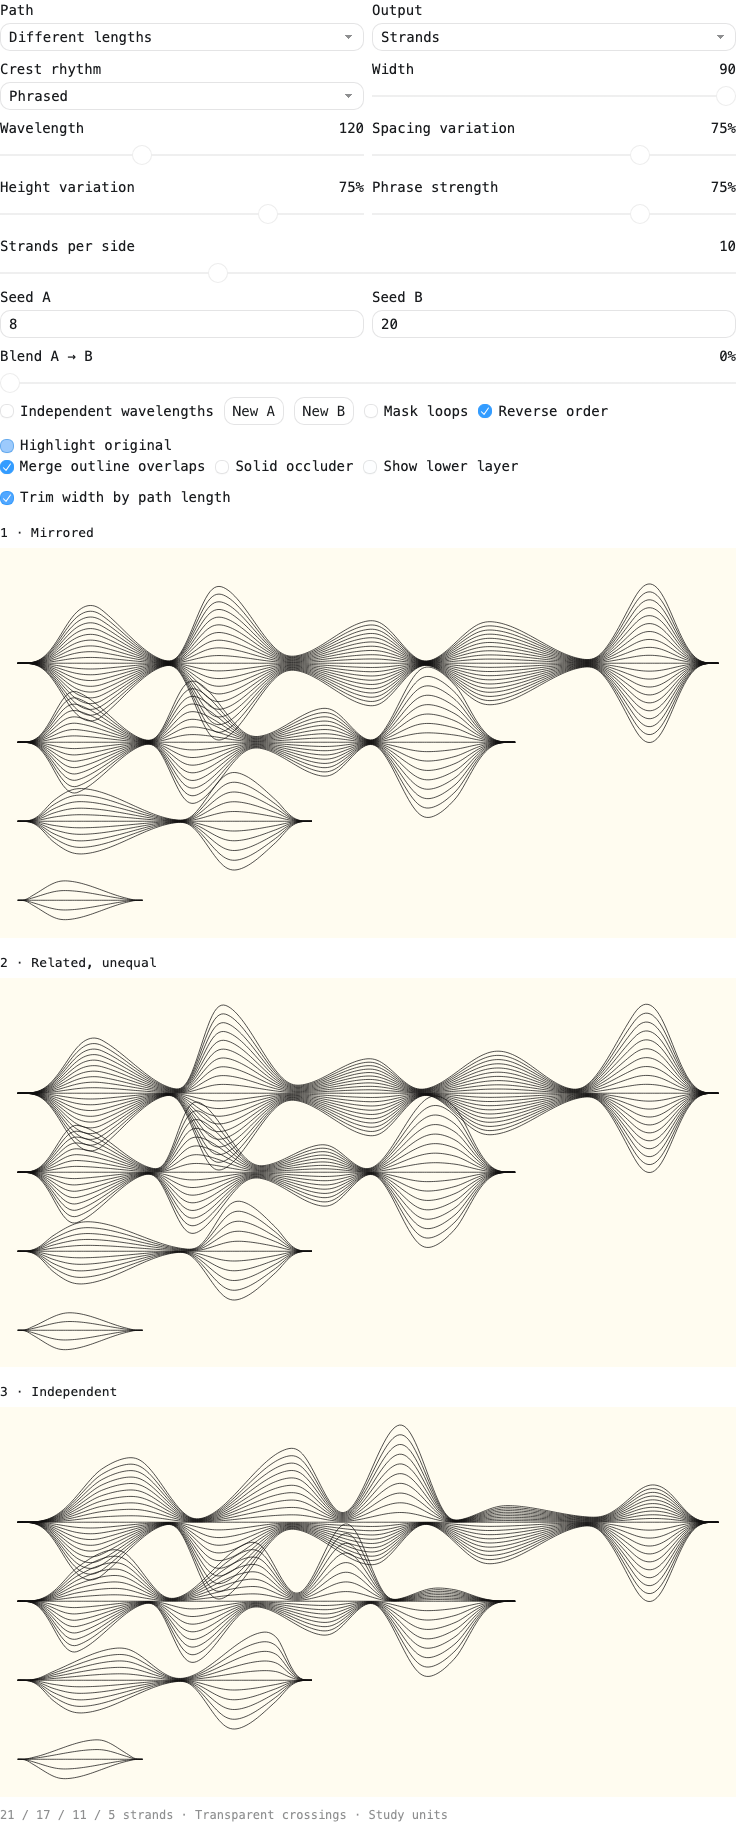
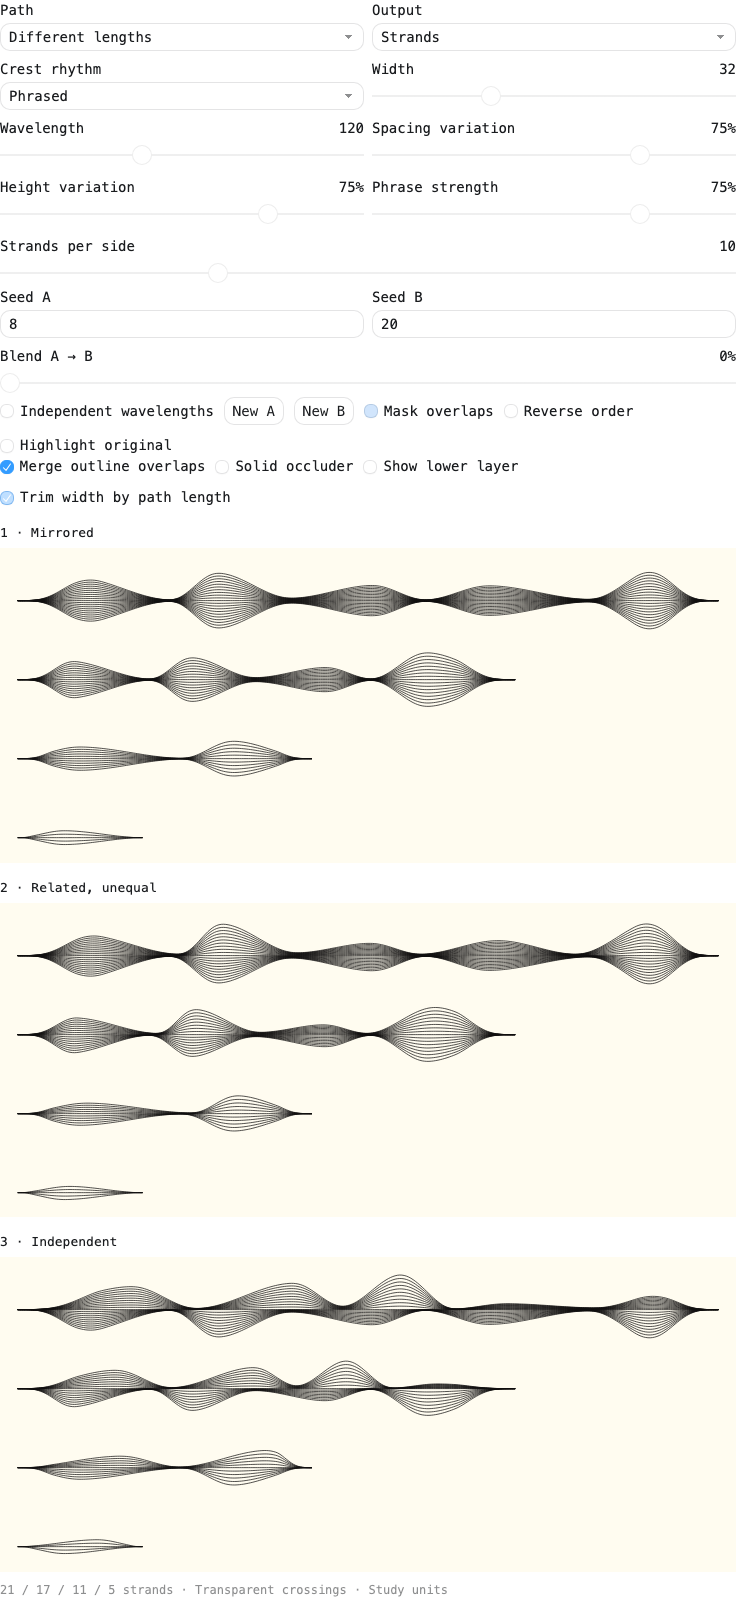
fix: mask ribbon overlaps between source paths

diff --git a/docs/reviews/open-path-ribbon-2026-09-08/study-template.html b/docs/reviews/open-path-ribbon-2026-09-08/study-template.html
@@ -9,6 +9,7 @@
         <option value="loop">Loop</option>
         <option value="hairpin">Tight bend</option>
         <option value="many">Different lengths</option>
+        <option value="crossing">Crossing paths</option>
       </select>
     </label>
     <label class="form-label">Output
@@ -60,7 +61,7 @@
     <label class="form-check"><input class="form-check-input" id="ribbon-independentWavelengths" type="checkbox"><span class="form-check-label">Independent wavelengths</span></label>
     <button class="btn" id="ribbon-next" type="button">New A</button>
     <button class="btn" id="ribbon-nextB" type="button">New B</button>
-    <label class="form-check"><input class="form-check-input" id="ribbon-mask" type="checkbox"><span class="form-check-label">Mask loops</span></label>
+    <label class="form-check"><input class="form-check-input" id="ribbon-mask" type="checkbox"><span class="form-check-label">Mask overlaps</span></label>
     <label class="form-check"><input class="form-check-input" id="ribbon-reverse" type="checkbox" disabled><span class="form-check-label">Reverse order</span></label>
     <label class="form-check"><input class="form-check-input" id="ribbon-guide" type="checkbox"><span class="form-check-label">Highlight original</span></label>
   </div>
@@ -107,7 +108,7 @@
     find('mergeOverlaps').disabled=options.outputMode!=='outline';
     find('mask').disabled=options.outputMode!=='strands';
     find('guide').disabled=options.outputMode!=='strands';
-    find('widthByLength').disabled=find('shape').value!=='many';
+    find('widthByLength').disabled=!['many','crossing'].includes(find('shape').value);
     find('right-wave-control').hidden=!options.independentWavelengths;
     find('wave-label').textContent=options.independentWavelengths?'Left wavelength':'Wavelength';
     find('wavelengthRight-value').textContent=options.wavelengthRight;
@@ -121,7 +122,7 @@
     const fixtures = typeof RibbonStudy.fixtures === 'function' ? RibbonStudy.fixtures() : RibbonStudy.fixtures;
     const inputs = find('shape').value==='many' ? [
       [[40,45],[660,45]],[[40,115],[480,115]],[[40,185],[300,185]],[[40,255],[150,255]]
-    ] : [fixtures[find('shape').value]];
+    ] : find('shape').value==='crossing' ? [[[60,40],[640,240]],[[60,240],[640,40]]] : [fixtures[find('shape').value]];
     const results = relations.map(([relation,label]) => ({label:relation==='mirrored'&&options.independentWavelengths&&options.wavelengthRight!==options.wavelength?'1 · Same pattern, unequal wavelengths':label, ...RibbonStudy.generateMany(inputs,{...options,relation})}));
     // The same framing for every relation preserves the comparison's scale.
     let x0=Infinity,y0=Infinity,x1=-Infinity,y1=-Infinity;
@@ -135,7 +136,7 @@
     for(const r of results)r.background=find('background').checked ?
       (options.solidOccluder||options.outputMode==='solid' ? RibbonSilhouette.clipPaths(background,r.silhouette??[]) : background) : [];
     find('drawings').innerHTML = results.map(r => `<div class="ribbon-label">${r.label}</div><svg class="ribbon-drawing" role="img" aria-label="${r.label} open path ribbon, ${options.outputMode}" viewBox="${box.join(' ')}"><title>${r.label}</title><g class="ribbon-lower" fill="none" stroke="#878580" stroke-width=".8">${r.background.map(p=>`<path d="${pathData(p)}"/>`).join('')}</g>${options.outputMode==='solid' ? `<path class="ribbon-solid" fill="#100F0F" fill-rule="evenodd" d="${(r.silhouette??[]).flat().map(p=>pathData(p)+'Z').join(' ')}"/>` : `<g class="ribbon-ink">${r.drawingPaths.map(p=>`<path d="${pathData(p)}"/>`).join('')}</g>`}${options.outputMode==='solid'?`<g class="ribbon-ink">${r.items.filter(item=>item.diagnostics.skipped).flatMap(item=>item.strands).map(p=>`<path d="${pathData(p)}"/>`).join('')}</g>`:''}${find('guide').checked&&options.outputMode==='strands' ? r.spines.map(p=>`<path class="ribbon-guide" d="${pathData(p)}"/>`).join('') : ''}</svg>`).join('');
-    find('detail').textContent = `${options.outputMode==='strands' ? (find('shape').value==='many' ? results[0].retainedSteps.map(n=>2*n+1).join(' / ')+' strands' : (2*options.steps+1)+' strands') : options.outputMode==='outline'?'Outline only':'Solid silhouette'} · ${options.solidOccluder||options.outputMode==='solid'?'Solid occlusion':options.maskLoops ? (options.reverseOrder ? 'Earlier passages on top' : 'Later passages on top') : 'Transparent crossings'} · Study units`;
+    find('detail').textContent = `${options.outputMode==='strands' ? (inputs.length>1 ? results[0].retainedSteps.map(n=>2*n+1).join(' / ')+' strands' : (2*options.steps+1)+' strands') : options.outputMode==='outline'?'Outline only':'Solid silhouette'} · ${options.solidOccluder||options.outputMode==='solid'?'Solid occlusion':options.maskLoops ? (options.reverseOrder ? 'Earlier passages on top' : 'Later passages on top') : 'Transparent crossings'} · Study units`;
     root.dataset.rendered = 'true';
     root.dataset.seed = String(seed);
   }

diff --git a/docs/reviews/open-path-ribbon-2026-09-08/geometry.js b/docs/reviews/open-path-ribbon-2026-09-08/geometry.js
@@ -390,7 +390,7 @@
       result={...visible,left,right,spine,diagnostics};
     } else result={strands:paths.map(nodes=>nodes.map(n=>n.p)),left,right,spine,diagnostics};
     const mode=opts.outputMode||'strands';
-    if(mode!=='strands'||opts.solidOccluder) {
+    if(mode!=='strands'||opts.solidOccluder||opts.maskAcrossPaths) {
       if(!root.RibbonSilhouette)throw Error('Ribbon silhouette helper missing');
       const spineNodes=spine.map((p,i)=>({p,s:sampled.ss[i]}));
       result.silhouette=root.RibbonSilhouette.fromNodes(leftNodes,rightNodes,spineNodes,{mergeOverlaps:true});
@@ -407,7 +407,20 @@
     const lengths=inputs.map(p=>{const clean=sanitize(p);return clean.length>1&&!same(clean[0],clean.at(-1))?length(clean):0;});
     const longest=Math.max(0,...lengths), steps=Math.max(1,Math.floor(+options.steps||defaults.steps));
     const counts=lengths.map(l=>options.widthByLength&&longest>0 ? Math.max(1,Math.ceil(steps*l/longest-1e-10)) : steps);
-    const items=inputs.map((p,i)=>generate(p,{...options,retainedSteps:counts[i]}));
+    const maskAcrossPaths=!!options.maskLoops&&inputs.length>1&&(!options.outputMode||options.outputMode==='strands');
+    const items=inputs.map((p,i)=>generate(p,{...options,retainedSteps:counts[i],maskAcrossPaths}));
+    if(maskAcrossPaths)items.forEach((item,index)=>{
+      if(item.diagnostics.skipped)return;
+      const blockers=root.RibbonSilhouette.union(items.filter((_,j)=>options.reverseOrder?j<index:j>index).map(r=>r.silhouette??[]));
+      if(!blockers.length)return;
+      const strands=[],strandIndices=[];
+      item.strands.forEach((path,i)=>{
+        const pieces=root.RibbonSilhouette.clipPaths([path],blockers);
+        strands.push(...pieces);
+        strandIndices.push(...pieces.map(()=>item.strandIndices?.[i]??i));
+      });
+      item.strands=strands;item.strandIndices=strandIndices;item.drawingPaths=strands;
+    });
     const result={items,retainedSteps:counts,strands:items.flatMap(r=>r.strands),
       spines:items.map(r=>r.spine),drawingPaths:items.flatMap(r=>r.drawingPaths??r.strands)};
     if(items.some(r=>r.silhouette)) {

diff --git a/docs/reviews/open-path-ribbon-2026-09-08/check-study.py b/docs/reviews/open-path-ribbon-2026-09-08/check-study.py
@@ -100,6 +100,18 @@ def run():
         page.select_option('#ribbon-outputMode','strands')
         page.locator('#ribbon-solidOccluder').uncheck()
         page.locator('#ribbon-background').uncheck()
+        page.select_option('#ribbon-shape','crossing')
+        for name,value in [('width',32),('steps',10)]:
+            page.locator('#ribbon-'+name).evaluate('(e,v)=>{e.value=v;e.dispatchEvent(new Event("input"));}',value)
+        page.locator('#ribbon-guide').uncheck()
+        crossingRaw=page.locator('.ribbon-ink').first.inner_html()
+        page.locator('#ribbon-mask').check()
+        crossingMasked=page.locator('.ribbon-ink').first.inner_html()
+        assert crossingMasked!=crossingRaw
+        page.locator('#ribbon-reverse').uncheck()
+        assert page.locator('.ribbon-ink').first.inner_html()!=crossingMasked
+        page.locator('#ribbon-study').screenshot(path=str(HERE/'cross-path-masking.png'))
+        page.locator('#ribbon-mask').uncheck()
         page.select_option('#ribbon-shape','many')
         page.locator('#ribbon-steps').evaluate('(e)=>{e.value=10;e.dispatchEvent(new Event("input"));}')
         assert page.locator('.ribbon-ink path').count()==252

diff --git a/docs/reviews/open-path-ribbon-2026-09-08/OUTPUT-STATUS.md b/docs/reviews/open-path-ribbon-2026-09-08/OUTPUT-STATUS.md
@@ -60,3 +60,20 @@ seed-blend numerical checks passed too. The lead inspected `outline-occlusion.pn
 `solid-occlusion.png` and `length-width.png`. Ready for Ian to check; no physical
 output or full application suite was run. Installing the effect requires the
 separate Python/Path integration already noted in the study README.
+
+## Mask overlaps across source paths
+
+Ian requested that loop masking also work between paths. The UI control is now
+**Mask overlaps** (engine option `maskLoops` retained for compatibility).
+`generateMany` first applies each path's existing self-loop masking, then clips
+its surviving strands against the union of all later input silhouettes. Reverse
+order switches both the inter-path order and the within-path passage order.
+The full retained-width silhouettes are blockers; individual strand gaps do not
+leak lower paths. Per-fragment strand indices are retained. Closed bypassed paths
+remain outside this open-ribbon masking policy.
+
+The new Crossing paths fixture demonstrates the order change. `multi-mask-check`
+passes inter-path cuts, intact top path, reversal, unchanged silhouette, provenance,
+determinism and single-path compatibility. Length/output checks pass too. Browser
+checks cover the new fixture, mask toggling and reversal; `cross-path-masking.png`
+records the preview. These are study checks, not installed-app validation.
